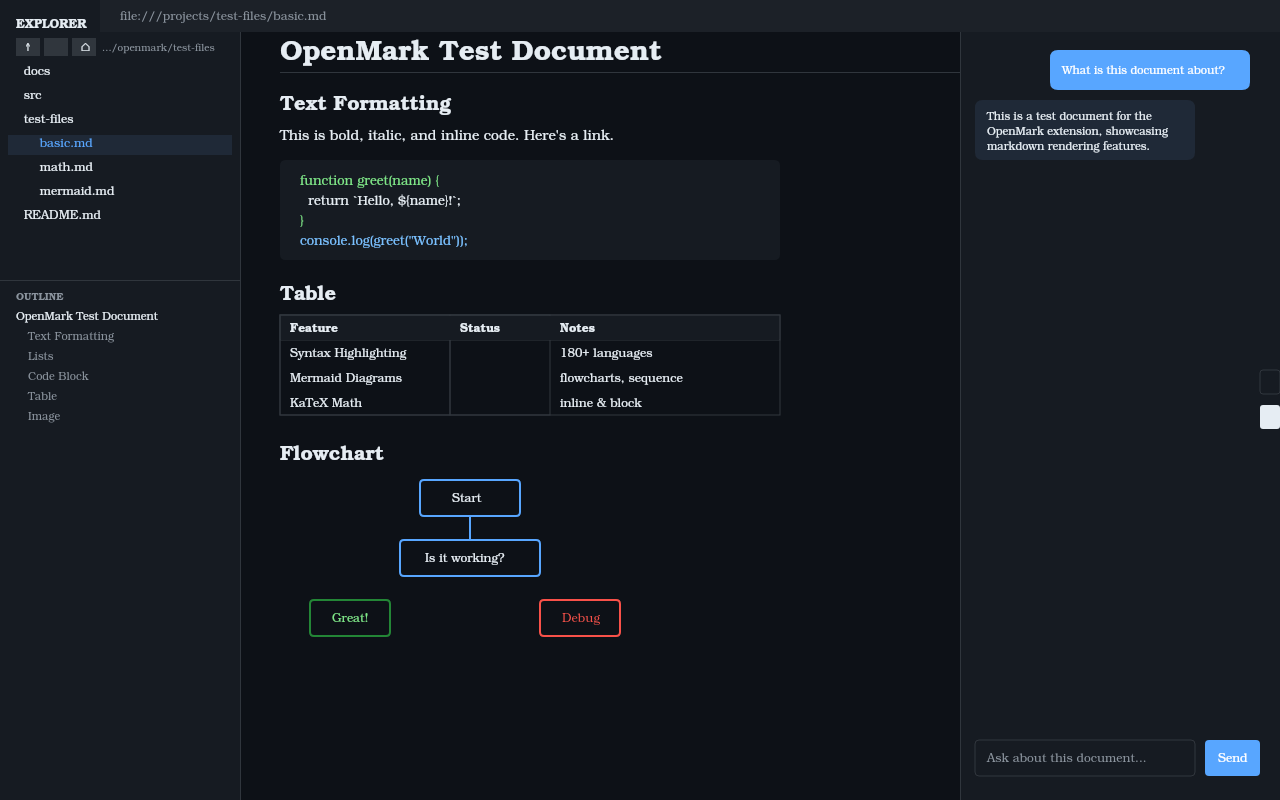
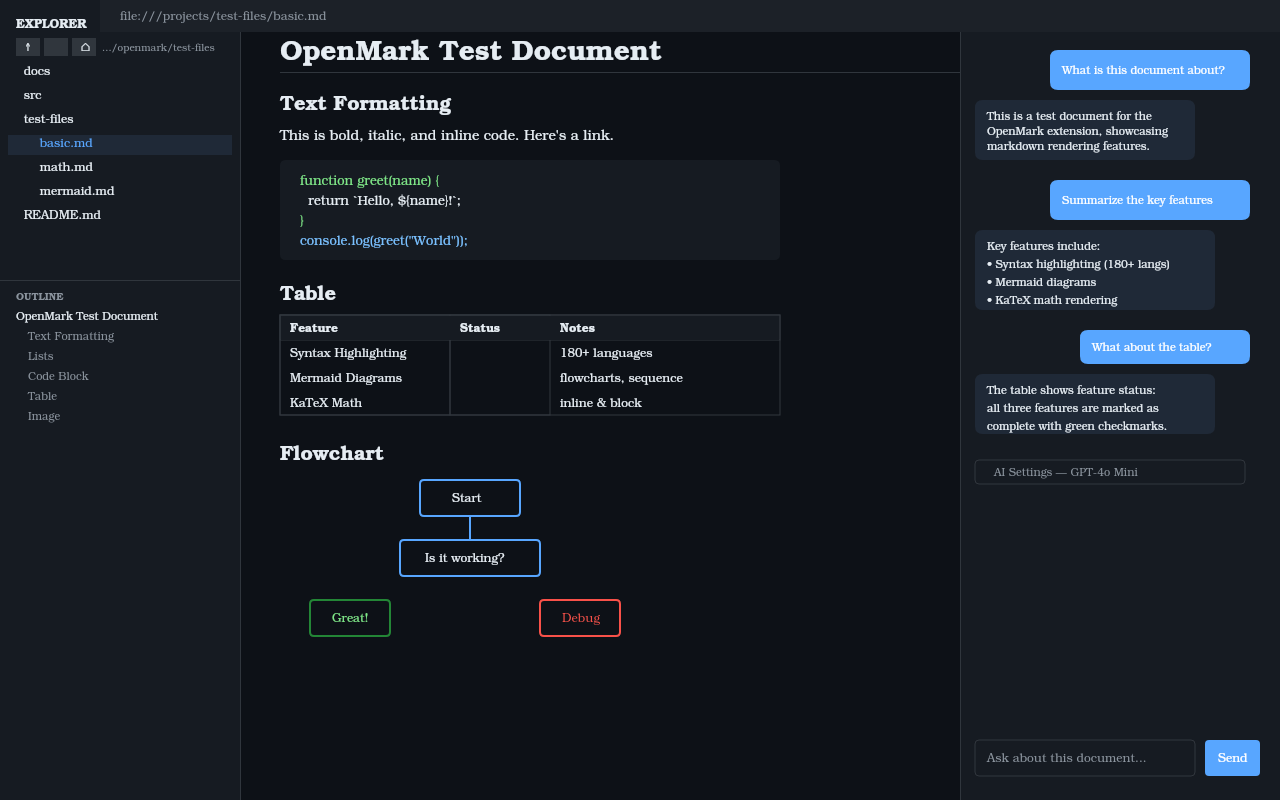
Fix store screenshots: remove white blocks, fill empty space
- screenshot-1: filled right panel with more chat messages, removed
  orphan toggle buttons that rendered as white squares
- screenshot-3: added State Diagram and Class Diagram to lower half,
  eliminating visual imbalance

Changed region(s): [[0.7812, 0.2188, 1.0, 0.5938], [0.9688, 0.5, 1.0, 0.5312]]

diff --git a/scripts/generate-store-assets.js b/scripts/generate-store-assets.js
@@ -250,19 +250,46 @@ function drawScreenshot1() {
   ctx.font = '12px sans-serif';
   ctx.fillText('Send', 1218, h - 38);
 
-  // Toggle buttons on right edge
+  // Right panel - more chat messages to fill space
+  ctx.fillStyle = c.link;
+  roundRect(ctx, 1050, 180, 200, 40, 8);
+  ctx.fill();
+  ctx.fillStyle = '#fff';
+  ctx.font = '11px sans-serif';
+  ctx.fillText('Summarize the key features', 1062, 204);
+
+  ctx.fillStyle = '#1f2937';
+  roundRect(ctx, 975, 230, 240, 80, 8);
+  ctx.fill();
+  ctx.fillStyle = c.text;
+  ctx.font = '11px sans-serif';
+  ctx.fillText('Key features include:', 987, 250);
+  ctx.fillText('• Syntax highlighting (180+ langs)', 987, 268);
+  ctx.fillText('• Mermaid diagrams', 987, 286);
+  ctx.fillText('• KaTeX math rendering', 987, 304);
+
+  ctx.fillStyle = c.link;
+  roundRect(ctx, 1080, 330, 170, 34, 8);
+  ctx.fill();
+  ctx.fillStyle = '#fff';
+  ctx.fillText('What about the table?', 1092, 351);
+
+  ctx.fillStyle = '#1f2937';
+  roundRect(ctx, 975, 374, 240, 60, 8);
+  ctx.fill();
+  ctx.fillStyle = c.text;
+  ctx.fillText('The table shows feature status:', 987, 394);
+  ctx.fillText('all three features are marked as', 987, 412);
+  ctx.fillText('complete with green checkmarks.', 987, 430);
+
+  // AI Settings toggle at top of right panel
   ctx.fillStyle = c.codeBg;
   ctx.strokeStyle = c.border;
-  roundRect(ctx, w - 20, h / 2 - 30, 20, 24, 3);
+  roundRect(ctx, 975, 460, 270, 24, 4);
   ctx.fill(); ctx.stroke();
-  ctx.fillStyle = c.text;
-  ctx.font = '12px sans-serif';
-  ctx.fillText('☰', w - 16, h / 2 - 14);
-
-  roundRect(ctx, w - 20, h / 2 + 5, 20, 24, 3);
-  ctx.fill();
-  ctx.fillStyle = c.link;
-  ctx.fillText('✎', w - 16, h / 2 + 21);
+  ctx.fillStyle = c.muted;
+  ctx.font = '11px sans-serif';
+  ctx.fillText('⚙ AI Settings — GPT-4o Mini', 987, 476);
 
   // URL bar
   ctx.fillStyle = '#1c2128';
@@ -606,6 +633,73 @@ function drawScreenshot3() {
     ctx.fill();
     ty += barH + 4;
   }
+
+  // State diagram section (fill lower area)
+  ctx.fillStyle = c.text;
+  ctx.font = 'bold 18px sans-serif';
+  ctx.fillText('State Diagram', 80, 570);
+
+  ctx.strokeStyle = c.link;
+  ctx.lineWidth = 2;
+  const states = [
+    { x: 120, y: 600, label: 'Idle' },
+    { x: 260, y: 600, label: 'Detecting' },
+    { x: 420, y: 600, label: 'Rendering' },
+    { x: 580, y: 600, label: 'Displayed' },
+  ];
+  for (const s of states) {
+    roundRect(ctx, s.x, s.y, 90, 30, 15);
+    ctx.stroke();
+    ctx.fillStyle = c.text;
+    ctx.font = '11px sans-serif';
+    ctx.fillText(s.label, s.x + 15, s.y + 19);
+  }
+  // Arrows between states
+  ctx.strokeStyle = c.muted;
+  ctx.lineWidth = 1.5;
+  ctx.beginPath(); ctx.moveTo(210, 615); ctx.lineTo(260, 615); ctx.stroke();
+  ctx.beginPath(); ctx.moveTo(350, 615); ctx.lineTo(420, 615); ctx.stroke();
+  ctx.beginPath(); ctx.moveTo(510, 615); ctx.lineTo(580, 615); ctx.stroke();
+
+  // Class diagram (fill right lower area)
+  ctx.fillStyle = c.text;
+  ctx.font = 'bold 18px sans-serif';
+  ctx.fillText('Class Diagram', 500, 570);
+
+  ctx.strokeStyle = c.border;
+  ctx.lineWidth = 1;
+  // Settings class
+  roundRect(ctx, 740, 590, 160, 90, 4);
+  ctx.stroke();
+  ctx.fillStyle = c.codeBg;
+  ctx.fillRect(741, 591, 158, 20);
+  ctx.fillStyle = c.text;
+  ctx.font = 'bold 11px sans-serif';
+  ctx.fillText('Settings', 790, 605);
+  ctx.font = '10px sans-serif';
+  ctx.fillStyle = c.muted;
+  ctx.fillText('+theme: string', 752, 625);
+  ctx.fillText('+fontSize: number', 752, 640);
+  ctx.fillText('+enableMermaid: bool', 752, 655);
+  ctx.fillText('+showToc: boolean', 752, 670);
+
+  // Renderer class
+  roundRect(ctx, 950, 590, 160, 90, 4);
+  ctx.stroke();
+  ctx.fillStyle = c.codeBg;
+  ctx.fillRect(951, 591, 158, 20);
+  ctx.fillStyle = c.text;
+  ctx.font = 'bold 11px sans-serif';
+  ctx.fillText('Renderer', 1000, 605);
+  ctx.font = '10px sans-serif';
+  ctx.fillStyle = c.muted;
+  ctx.fillText('+initRenderer()', 962, 625);
+  ctx.fillText('+renderMarkdown()', 962, 640);
+  ctx.fillText('+renderMermaid()', 962, 655);
+
+  // Arrow between classes
+  ctx.strokeStyle = c.link;
+  ctx.beginPath(); ctx.moveTo(900, 635); ctx.lineTo(950, 635); ctx.stroke();
 
   // Light theme badge
   ctx.fillStyle = c.codeBg;
